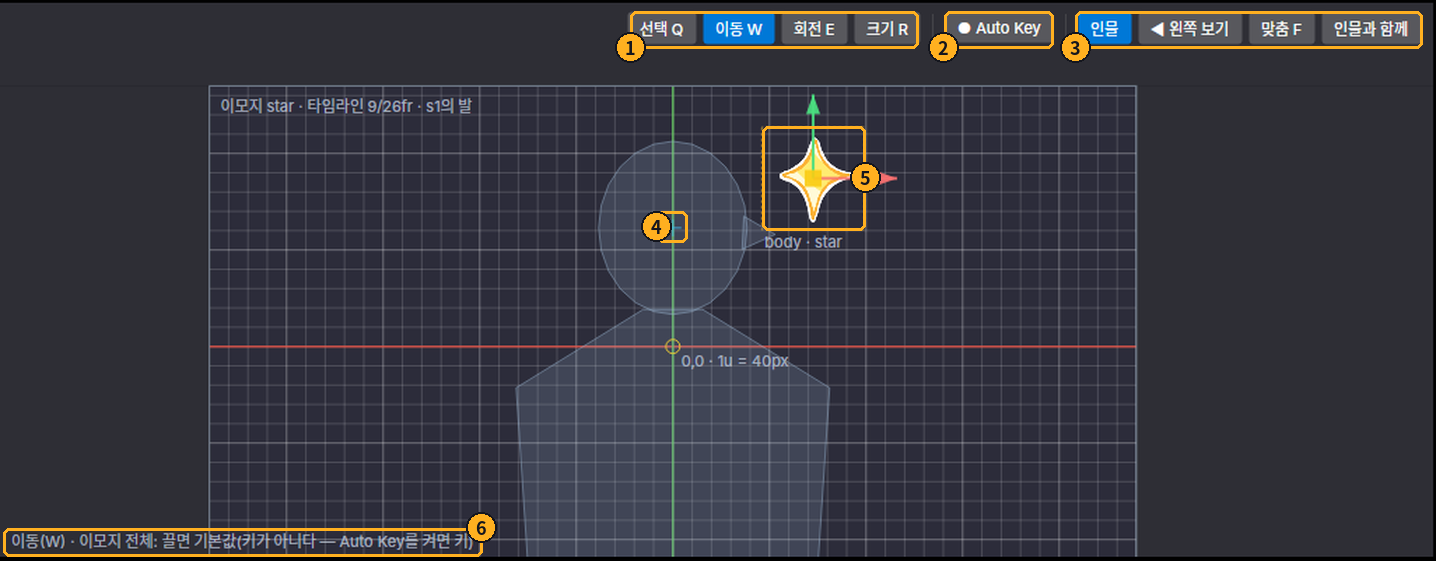
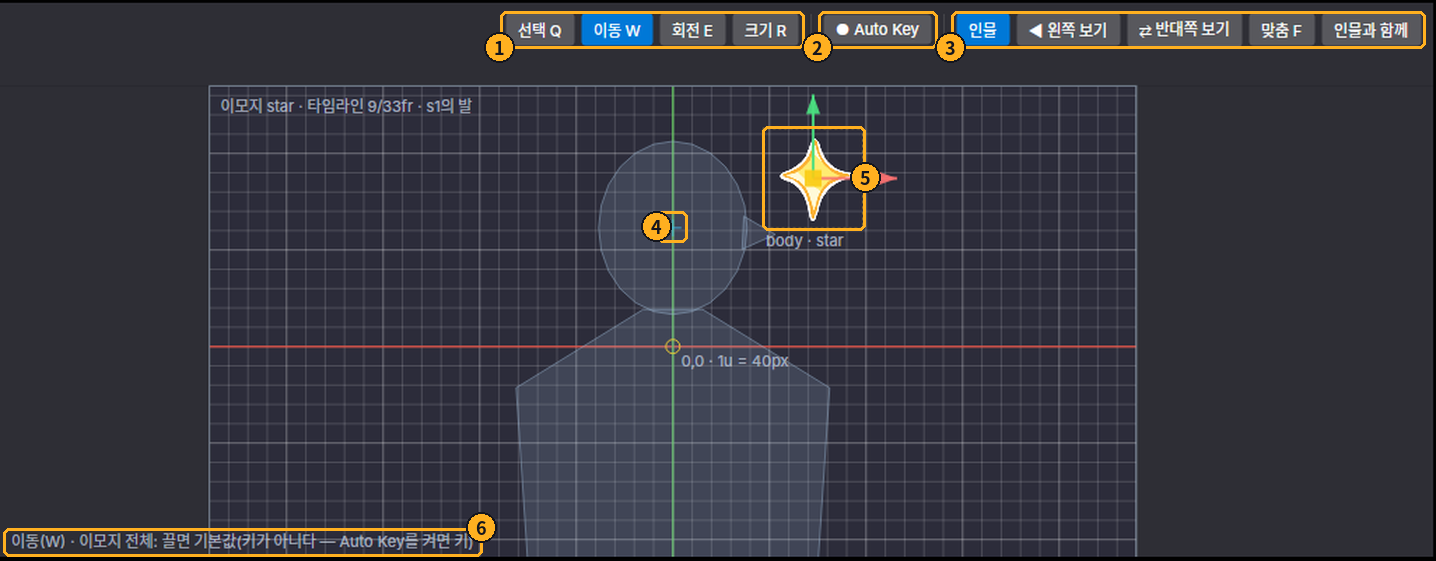
문서 · 그림을 30fps와 반대쪽(flip)에 맞춘다
앞의 두 커밋(30fps로 · flip과 _l 걷기)에 따라 설명서와 그림을 고친다.

- AUTHORING-FILES: 판 motion-authoring/3과 옛 판 옮기기(tools/authoring-24to30.py), 초당 30프레임 · 프레임↔초 표 ·
  알림의 보기(0.21초 = 6.3프레임), spark 보기를 옮긴 값으로, 좌우 절에 대본의 반대쪽(flip — 사본을 두지 않는다), mt pose --side
- USER-GUIDE · 그림 설명서: 초당 30프레임, 도구 띠의 "⇄ 반대쪽 보기"(단추 표 · 좌우 절 · 문제 표)
- 예시 README: 30fps로 옮긴 프레임과 구간, 이 폴더의 emojis.json이 런타임의 새 견본
- HANDOFF · MAINTENANCE · SESSION-HANDOFF · PLAN-cleanup: 판 /3 · 스냅 1/30 · 테스트 수(916)
- HANDOFF-30fps: 정한 것(반입 기준 · 판 /3과 스크립트 · 견본 · flip)과 한 것, 남은 것(런타임의 견본 바꾸기)
- 그림 설명서의 그림 18장을 다시 뽑았다(번호를 얹는 tools/guide-figures.py — 도구 띠가 넓어진 자리 ①~④).
  픽셀이 그대로인 8장(개념 그림 넷 · 키 놓기 · 프리셋 · 문제 · 씬 왼쪽)은 두었다

전체 테스트 916 통과.

Claude-Session: https://claude.ai/code/session_01FgAUGZh9UWnzLeHtUaGEK3

diff --git a/tools/guide-figures.py b/tools/guide-figures.py
@@ -243,13 +243,13 @@ figure("guide-clip", "clip-screen", [
 figure("guide-clip", "clip-timeline", [(1, 290, 599, 404, 643, "bl"), (2, 408, 599, 1186, 619, "tr"), (3, 650, 623, 1138, 643, "br"), (4, 384, 601, 398, 641, "t")], crop=(286, 575, 1314, 653), scale=1.5)
 
 figure("ux-star", "emoji-screen", [
-    (1, 6, 54, 276, 266, "l"), (2, 6, 274, 276, 380, "l"), (3, 288, 48, 1312, 445, "tl"), (4, 736, 54, 1304, 80, "bl"),
+    (1, 6, 54, 276, 266, "l"), (2, 6, 274, 276, 380, "l"), (3, 288, 48, 1312, 445, "tl"), (4, 645, 54, 1306, 80, "bl"),
     (5, 288, 449, 1312, 501, "tl"), (6, 288, 503, 1312, 577, "tl"), (7, 288, 585, 1312, 932, "tl"),
     (8, 1320, 50, 1596, 302, "tl"), (9, 1320, 308, 1596, 438, "tl"),
 ])
 figure("ux-new-emoji-form", "emoji-new", [(1, 8, 8, 452, 54, "r"), (2, 8, 60, 452, 198, "r"), (3, 8, 206, 452, 304, "r"), (4, 8, 312, 452, 470, "r"), (5, 10, 532, 88, 568, "bl")], scale=1.3, pad=14)
 figure("ux-star", "emoji-life", [(1, 292, 481, 408, 501, "bl"), (2, 434, 481, 856, 501, "b"), (3, 882, 481, 1026, 501, "br"), (4, 1030, 451, 1118, 475, "bl"), (5, 1122, 451, 1196, 475, "bl"), (6, 1200, 447, 1310, 479, "br")], crop=(286, 443, 1314, 579), scale=1.4)
-figure("ux-star", "emoji-viewport", [(1, 738, 54, 944, 80, "bl"), (2, 962, 54, 1040, 80, "bl"), (3, 1056, 54, 1304, 80, "bl"), (4, 757, 197, 779, 219, "l"), (5, 832, 136, 906, 210, "r"), (6, 290, 423, 632, 443, "tr")], crop=(288, 46, 1314, 447), scale=1.4)
+figure("ux-star", "emoji-viewport", [(1, 645, 54, 862, 80, "bl"), (2, 872, 54, 957, 80, "bl"), (3, 967, 54, 1306, 80, "bl"), (4, 757, 197, 779, 219, "l"), (5, 832, 136, 906, 210, "r"), (6, 290, 423, 632, 443, "tr")], crop=(288, 46, 1314, 447), scale=1.4)
 figure("ux-star", "emoji-keys", [(1, 1326, 334, 1420, 348, "r"), (2, 1326, 352, 1562, 380, "br"), (3, 1326, 384, 1362, 404, "r")], crop=(1318, 304, 1600, 440), scale=1.6)
 figure("ux-star", "emoji-lanes", [(1, 288, 669, 498, 819, "tr"), (2, 1256, 723, 1292, 741, "l"), (3, 1256, 826, 1296, 844, "l"), (4, 1196, 637, 1266, 661, "bl")], crop=(286, 583, 1314, 934), scale=1.0)
 figure("ux-move-imported", "emoji-move", [(1, 1030, 451, 1118, 475, "bl"), (2, 536, 481, 782, 501, "b")], crop=(286, 443, 1314, 579), scale=1.4)

diff --git a/docs/AUTHORING-FILES.md b/docs/AUTHORING-FILES.md
@@ -35,7 +35,7 @@
 | `mt validate <문서>` | 문제 목록. `blocking: true`가 하나라도 있으면 종료 코드 1 |
 | `mt pose <문서> --motion <이름> --time <초> [--object <id>] [--mode relative\|absolute]` | 그 시각에 모션이 건드리는 노드의 값 |
 | `mt pose <문서> --clip <이름> --time <초>` | 그 시각의 클립 — 오브젝트마다 노드의 값 |
-| `mt pose <문서> --emoji <이름> --time <초> [--off <초>] [--view life\|timeline] [--facing right\|left]` | 그 시각의 이모지 — 이모지 전체와 그림마다의 자리 · 크기 · 회전 · 투명도 · 그림 |
+| `mt pose <문서> --emoji <이름> --time <초> [--off <초>] [--view life\|timeline] [--facing right\|left] [--side default\|flip]` | 그 시각의 이모지 — 이모지 전체와 그림마다의 자리 · 크기 · 회전 · 투명도 · 그림 |
 | `mt export <문서> <motions.json>` | `motions.json`(`motions/2`)으로 내보낸다. 막는 문제가 있으면 쓰지 않는다 |
 | `mt emojis <문서> <emojis.json>` | `emojis.json`(`emojis/2`)으로 내보낸다. 막는 문제가 있으면 쓰지 않는다 |
 | `mt bake <문서> --clip <이름> --object <id> --name <새 모션> [--out <문서>]` | 클립에서 그 캐릭터에 얹힌 블록 전부를 모션 하나로 구워 문서에 더한다 |
@@ -103,7 +103,7 @@ mt pose     a.motion-authoring.json --clip greet --time 0.5
 
 ```json
 {
-  "schema": "motion-authoring/2",
+  "schema": "motion-authoring/3",
   "motions": [ … ],
   "clips":   [ … ],
   "emojis":  [ … ]
@@ -112,7 +112,7 @@ mt pose     a.motion-authoring.json --clip greet --time 0.5
 
 | 키 | 뜻 |
 |---|---|
-| `schema` | **반드시 `"motion-authoring/2"`.** 다르면 읽지 않는다 |
+| `schema` | **반드시 `"motion-authoring/3"`.** 다르면 읽지 않는다 — 옛 판 `/2`는 이모지의 프레임을 24fps로 셌다. 옛 문서는 `python3 tools/authoring-24to30.py <문서>`로 한 번 옮긴다 |
 | `motions` | 캐릭터 모션들(§4). 없으면 `[]` |
 | `clips` | 연출 클립들(§5). 없으면 적지 않는다 |
 | `emojis` | 이모지들(§6). 없으면 적지 않는다 |
@@ -121,7 +121,7 @@ mt pose     a.motion-authoring.json --clip greet --time 0.5
 공통 규칙:
 
 - **이름**(모션 · 클립 · 배역 · 이모지 · 그림 · 구간)은 영문 소문자 · 숫자 · `_`만 쓴다(`[a-z0-9_]+`). 같은 종류 안에서 겹치지 않는다. 내보낸 뒤에는 바꾸지 않는다 — 대본이 이름으로 부른다.
-- **시각은 초**다(`t` · `duration` · `at`). 툴과 게임은 초당 24프레임으로 본다 — 프레임 n은 `n / 24`초다(6프레임 = 0.25, 12프레임 = 0.5).
+- **시각은 초**다(`t` · `duration` · `at`). 툴과 게임은 초당 30프레임으로 본다 — 프레임 n은 `n / 30`초다(6프레임 = 0.2, 15프레임 = 0.5).
 - 키 이름은 camelCase, 값의 낱말(`restore` · `position` · `flat` …)은 소문자다. JSON 주석과 끝의 쉼표는 읽어 준다. 모르는 키는 읽지 않는다 — 키 이름의 오타는 뜻한 값을 빼먹는다. `mt validate`가 **알림**으로 그 자리(`motions[0].ednn`)를 말하니 알림도 읽는다. 대소문자는 가리지 않는다.
 
 ## 4. 캐릭터 모션
@@ -274,16 +274,16 @@ mt pose     a.motion-authoring.json --clip greet --time 0.5
     "duration": 1.0,
     "channels": [
       { "node": "Emoji_Offset", "kind": "scale",
-        "x": { "keys": [ { "t": 0, "v": 0, "tangent": "flat" }, { "t": 0.125, "v": 1.15, "tangent": "flat" }, { "t": 0.20833334, "v": 1, "tangent": "flat" } ] },
-        "y": { "keys": [ { "t": 0, "v": 0, "tangent": "flat" }, { "t": 0.125, "v": 1.15, "tangent": "flat" }, { "t": 0.20833334, "v": 1, "tangent": "flat" } ] } },
+        "x": { "keys": [ { "t": 0, "v": 0, "tangent": "flat" }, { "t": 0.13333334, "v": 1.15, "tangent": "flat" }, { "t": 0.2, "v": 1, "tangent": "flat" } ] },
+        "y": { "keys": [ { "t": 0, "v": 0, "tangent": "flat" }, { "t": 0.13333334, "v": 1.15, "tangent": "flat" }, { "t": 0.2, "v": 1, "tangent": "flat" } ] } },
       { "node": "small/EmojiRig_Image", "kind": "euler",
-        "z": { "keys": [ { "t": 0.25, "v": 0, "tangent": "linear" }, { "t": 0.75, "v": 360, "tangent": "linear" } ] } }
+        "z": { "keys": [ { "t": 0.26666668, "v": 0, "tangent": "linear" }, { "t": 0.76666665, "v": 360, "tangent": "linear" } ] } }
     ]
   },
   "spans": [
-    { "name": "in",   "start": 0,  "end": 5 },
-    { "name": "hold", "start": 6,  "end": 18 },
-    { "name": "out",  "start": 19, "end": 24 }
+    { "name": "in",   "start": 0,  "end": 6 },
+    { "name": "hold", "start": 8,  "end": 23 },
+    { "name": "out",  "start": 24, "end": 30 }
   ],
   "in": "in", "hold": "hold", "out": "out"
 }
@@ -331,8 +331,8 @@ mt pose     a.motion-authoring.json --clip greet --time 0.5
 
 이모지의 타임라인은 모션보다 **느슨하다**: 키가 하나여도 되고, 첫 키가 0이 아니어도, 마지막 키가 끝이 아니어도 된다. 키는 타임라인(0~`duration`) 안에만 있으면 된다. 첫 키 앞은 첫 키의 값, 마지막 키 뒤는 마지막 키의 값이다. `step`을 쓸 수 있다.
 
-- **키의 시각은 프레임에 맞춘다** — `t = 프레임 / 24`. (1프레임 0.041666668 · 3프레임 0.125 · 5프레임 0.20833334 · 6프레임 0.25 · 12프레임 0.5 · 18프레임 0.75 · 24프레임 1.0)
-- 타임라인의 프레임은 0부터 `duration × 24`까지다(1초면 0~24, 25프레임).
+- **키의 시각은 프레임에 맞춘다** — `t = 프레임 / 30`. (1프레임 0.033333335 · 3프레임 0.1 · 4프레임 0.13333334 · 6프레임 0.2 · 8프레임 0.26666668 · 15프레임 0.5 · 24프레임 0.8 · 30프레임 1.0)
+- 타임라인의 프레임은 0부터 `duration × 30`까지다(1초면 0~30, 31프레임).
 
 ### 수명 — 한 번 뜨고 사라지는가, 머무는가
 
@@ -349,13 +349,15 @@ mt pose     a.motion-authoring.json --clip greet --time 0.5
 
 이모지는 **오른쪽을 보는 인물**을 기준으로 만든다. 인물이 왼쪽을 보면 게임이 이모지를 통째로 거울에 비춘다 — 따로 만들지 않는다. 뒤집히면 안 되는 그림(글자 · 물음표)에만 `upright: true`, 아예 방향을 따르지 않게 하려면 이모지에 `fixedSide: true`.
 
+**반대쪽에 띄우는 것도 따로 만들지 않는다** — 대본이 고른다: `<<emoji 누구 이름 flip>>`이 정의의 반대쪽에 띄운다(오프셋 · 그림의 자리 · 이모지 전체의 움직임이 거울에 비치고, `upright` 그림은 바로 선다. `fixedSide` 이모지도 이것은 따른다). 좌우 사본(`<이름>_l`)을 두지 않는다.
+
 ### `mt pose --emoji`
 
 ```bash
 ./mt pose a.motion-authoring.json --emoji spark --time 0.1
 ```
 
-수명대로 읽는다(등장 → 머묾 되풀이 → `--off <초>`에 내리면 퇴장). `phase` · `clip` · `frame`이 지금 어느 구간의 몇 프레임인지 말하고, `offset`(이모지 전체)과 `rigs[]`(그림마다의 `at` 화면 자리 · `position` · `scale` · `rotation` · `alpha` · `sprite`)가 그때의 모습이다. 구간과 상관없이 타임라인의 그 프레임을 보려면 `--view timeline`, 왼쪽을 보는 인물에게 뜬 모습은 `--facing left`.
+수명대로 읽는다(등장 → 머묾 되풀이 → `--off <초>`에 내리면 퇴장). `phase` · `clip` · `frame`이 지금 어느 구간의 몇 프레임인지 말하고, `offset`(이모지 전체)과 `rigs[]`(그림마다의 `at` 화면 자리 · `position` · `scale` · `rotation` · `alpha` · `sprite`)가 그때의 모습이다. 구간과 상관없이 타임라인의 그 프레임을 보려면 `--view timeline`, 왼쪽을 보는 인물에게 뜬 모습은 `--facing left`, 대본이 반대쪽을 고른 모습(`flip`)은 `--side flip`.
 
 ## 7. 씬 — 미리보기의 자리 (적지 않아도 된다)
 
@@ -375,7 +377,7 @@ mt pose     a.motion-authoring.json --clip greet --time 0.5
 | `message` | 까닭 · 고치는 법 |
 |---|---|
 | `모르는 키 'motions[0].ednn' — 읽지 않았다`(알림) | 키 이름의 오타다 — 그 값은 들어가지 않았다. 이 문서의 이름으로 고친다 |
-| `schema '…'는 읽을 수 없다` | `schema`가 `motion-authoring/2`가 아니다 |
+| `schema '…'는 읽을 수 없다` | `schema`가 `motion-authoring/3`이 아니다 — 옛 판 `/2`(24fps)는 `python3 tools/authoring-24to30.py <문서>`로 옮긴다 |
 | `이름은 [a-z0-9_]+ 여야 한다` · `이름은 영문 소문자·숫자·_ 만 쓸 수 있다` | 대문자 · 빈칸 · 한글 · `-`를 썼다 |
 | `노드 '…'가 리그 'character'의 스키마에 없다` | 노드 이름이 틀렸다 — §4의 표에서 그대로 옮긴다 |
 | `키가 2개 이상이어야 한다` | 모션의 성분에 키가 하나다 |
@@ -388,14 +390,14 @@ mt pose     a.motion-authoring.json --clip greet --time 0.5
 | `…과 같은 때에 쓴다 — 겹칠 수 없다` | 같은 노드를 쓰는 두 블록의 시간이 겹친다 — `at`을 옮기거나 다른 노드를 쓰는 모션으로 |
 | `머묾 '…'이 되풀이할 때 튄다 — …`(알림) | 머묾의 끝에서 처음으로 넘어가는 한 걸음이 구간 안의 걸음보다 훨씬 크다 — 머묾의 처음과 끝의 값을 맞춘다 |
 | `그림 '…'의 그림 파일이 문서의 폴더 밖에 있다: …`(알림) | 절대 경로이거나 `../`로 나간다 — 저작본을 옮기면 그림을 잃는다. 그림을 문서 옆(그 아래 폴더)에 두고 그 경로로 적는다 |
-| `프레임에 안 맞는 키가 …개다`(알림) | 이모지의 키 시각이 1/24초의 배수가 아니다(0.26초 = 6.24프레임). 그대로 나가고 재생되지만 구간의 경계와 어긋난다 — `t`를 프레임 ÷ 24로 적는다(6프레임 = 0.25) |
+| `프레임에 안 맞는 키가 …개다`(알림) | 이모지의 키 시각이 1/30초의 배수가 아니다(0.21초 = 6.3프레임). 그대로 나가고 재생되지만 구간의 경계와 어긋난다 — `t`를 프레임 ÷ 30으로 적는다(6프레임 = 0.2) |
 | `그림 '…'의 그림 파일을 찾지 못했다: …`(알림) | `images`의 경로가 틀렸다 — 경로는 **문서 파일이 놓인 폴더** 기준이다 |
 | `그림이 없다` · `그림 '…'에 그림 파일이 없다` | 이모지에 `rigs`가 없다 · 그림에 `images`가 없다 |
 | `키를 받는 노드가 아니다` | 이모지의 `node`는 `Emoji_Offset` 또는 `{그림}/EmojiRig_Image`뿐이다 |
 | `그림 '…'이 이 이모지에 없다` | `node`의 그림 이름이 `rigs[].name`에 없다 |
 | `… 성분은 이모지에 없다` | 이모지의 회전은 `z`만, `alpha` · `image`는 `x`만 |
 | `키 …초가 타임라인(0~…초) 밖이다` | 키가 `duration`을 넘었다 |
-| `구간 '…'이 타임라인 밖이거나 거꾸로다` | 구간의 프레임이 `0 ~ duration×24`를 벗어났다 |
+| `구간 '…'이 타임라인 밖이거나 거꾸로다` | 구간의 프레임이 `0 ~ duration×30`을 벗어났다 |
 | `…에 이은 구간 '…'이 없다` | `in` · `hold` · `out`이 없는 구간을 가리킨다 |
 
 ## 9. 보내기 전에
@@ -403,7 +405,7 @@ mt pose     a.motion-authoring.json --clip greet --time 0.5
 - [ ] `mt validate`의 `ok`가 `true`다. 알림(`blocking: false`)은 읽고, 뜻한 것만 남겼다.
 - [ ] `mt pose`로 가장 큰 순간(가장 깊이 숙인 때 · 가장 커진 때)의 값을 읽어 뜻한 값인지 봤다.
 - [ ] 모션: 연기의 노드만 썼고 0(배율 1)에서 시작한다. `restore`면 0으로 끝난다.
-- [ ] 이모지: 키가 프레임에 맞고(`n/24`), 머묾이 되풀이할 때 튀지 않고, 등장의 끝 · 퇴장의 처음이 머묾과 이어진다.
+- [ ] 이모지: 키가 프레임에 맞고(`n/30`), 머묾이 되풀이할 때 튀지 않고, 등장의 끝 · 퇴장의 처음이 머묾과 이어진다.
 - [ ] 이름은 소문자 · 숫자 · `_`.
 
 ## 10. 예시

diff --git a/docs/MAINTENANCE.md b/docs/MAINTENANCE.md
@@ -24,7 +24,7 @@ dotnet run     --project src/Mt.App/Mt.App.csproj
 |---|---|
 | 모션·채널·키 모델, 씬 모델 | `Mt.Authoring/Model/MotionDocument.cs` · `SceneAsset.cs` · `StageNodes.cs`(무대 뼈대 이름 규약·패럴랙스 상수) |
 | 편집 명령 전부(undo 포함) | `Mt.Authoring/Editing/MotionEditor.cs`(+ `.Clips.cs` · `.Emojis.cs`) — `Mutate`·`Batch`·`RecordExternal`·`Undo/Redo`·끄는 조작(`BeginGesture`·`GestureChanged`·`EndGesture`) |
-| 저작 원본 읽고 쓰기 | `Serialization/MotionDocumentJson.cs` (`motion-authoring/2`만 읽는다) |
+| 저작 원본 읽고 쓰기 | `Serialization/MotionDocumentJson.cs` (`motion-authoring/3`만 읽는다) |
 | `motions.json` 읽고 쓰기 | `Serialization/MotionsJson.cs` (`motions/2` 정규 직렬화·관용 읽기) |
 | 규칙·경고·돕는 손 | `Validation/MotionValidator.cs`(코어 `MotionRules`) · `ClipValidator.cs` · `EmojiValidator.cs` · `MotionFixes.cs` · `MotionExport.cs` · `EmojiExport.cs` |
 | 문서가 스키마를 지키는가 · 덤프가 달라졌을 때 | `Schema/SchemaContract.cs`(막는 문제) · `SchemaDiff.cs`(알림 + 이름 바꾸기 따라가기) |
@@ -37,7 +37,7 @@ dotnet run     --project src/Mt.App/Mt.App.csproj
 | 시각의 포즈, 포즈 → 키 값 | `Preview/MotionPreview.cs` · `PoseEdit.cs`(`RootDeltaToLocal`·`AngleDelta`·`ScaleAlong`·`KeyValueFor`) |
 | 초상 배치·사각형 | `Preview/PortraitLayout.cs`(런타임 HeightFitPreserveAspect와 같다) |
 | 재생 시계 | `Preview/PlaybackClock.cs` |
-| 그래프 수학(순수) | `Graph/` — `GraphCamera`(좌표) · `GraphHitTest` · `TangentMath` · `HandleMath` · `KeyOps` · `KeySelection` · `KeyClipboard` · `TimeSnap`(DefaultStep 1/24) · `TimeText` · `TimeSliderOps` · `DopeSheetRows` · `CurveSampler` · `RelativeInput`(`+=3`) |
+| 그래프 수학(순수) | `Graph/` — `GraphCamera`(좌표) · `GraphHitTest` · `TangentMath` · `HandleMath` · `KeyOps` · `KeySelection` · `KeyClipboard` · `TimeSnap`(DefaultStep 1/30) · `TimeText` · `TimeSliderOps` · `DopeSheetRows` · `CurveSampler` · `RelativeInput`(`+=3`) |
 | 프리셋 모션 9종 | `Presets/MotionPresets.cs` |
 | 설정 파일 | `Settings/ToolSettings.cs` |
 | 셸 | `Mt.App/MainWindow.*.cs` — 맡은 일별 partial: `axaml.cs`(필드 · 화면 짜기 · 모션 목록과 인스펙터 · 명령) · `Mode`(작업 모드) · `Tools`(뷰포트 위 도구 띠) · `Shortcuts`(전역 단축키) · `Settings`(설정 · 창 배치 · 설정 창 · F1) · `Files` · `Document`(창 제목 · 저장하지 않은 것을 묻기 · 자동 저장본 되살리기) · `Scene`(하이어아키 · 씬 탭) · `ChannelBox` · `Outliner`(그래프 왼쪽 채널 목록) · `Problems`(문제 칸) |
@@ -119,12 +119,12 @@ dotnet run     --project src/Mt.App/Mt.App.csproj
 | `ScenePreview.Build` 순서 | 깊이 → place → 오프셋 → 샷. place 폴드는 월드 좌표로 되감기 때문에 뒤에 넣은 것만 살아남는다 |
 | SwayPivot 같은 스트레치 노드 | 원점이 화면 크기 rect의 아래 끝이라 그림 밖이다. 뷰포트 `GizmoAnchor`가 그림 가운데로 옮긴다 |
 | 그래프 팬은 RMB만 | MMB 드래그는 선택 키 이동(마야). 뷰포트는 MMB·RMB 둘 다 팬 |
-| 시간 스냅 기본 1/24 | 테스트는 기대값을 1/60으로 쓰는 곳이 있어 `Show()`에서 `SnapStep = 1.0 / 60`을 둔다 |
+| 시간 스냅 기본 1/30(1프레임, 30fps) | 테스트는 기대값을 1/60으로 쓰는 곳이 있어 `Show()`에서 `SnapStep = 1.0 / 60`을 둔다 |
 | 재생 기준 자동 변경 | 채널이 없는 모션의 **첫 키**를 자리·깊이 컨트롤러에 놓을 때만 절대값으로 바뀐다(`EnsurePreviewModeForGroup`) |
 | 자산 동기화 | `DocumentSession`은 편집기 Changed에서 리그·초상 지문(`rig=…\nbase=…\nportrait id=…`)이 바뀐 때만 다시 읽는다. 키 편집은 다시 읽지 않는다 |
 | 글 칸 확정 | `OnCommit`: Enter는 확정 + 포커스를 뷰포트로, LostFocus는 글이 바뀐 때만 확정. 같은 값 재확정은 기록이 아니다 |
 | 깊이 슬라이더 | 0‥40, close = 20, 그 너머는 `depth.json` 커브의 할선 연장(런타임 규칙). 놓으면 DepthScale X·Y + DepthY를 한 번에 굽는다 |
-| 옛 파일 | 읽지 않는다. 저작본은 `motion-authoring/2`가 아니면 거부한다. `motions.json`도 `motions/2`가 아니면 읽지 않는다. 지운 기능(카메라 모션 · 상태 블록)이 든 문서는 열리되 검증이 문제로 알린다 |
+| 옛 파일 | 읽지 않는다. 저작본은 `motion-authoring/3`이 아니면 거부한다(/2는 이모지의 프레임이 24fps — 툴 밖의 한 번 쓰는 `tools/authoring-24to30.py`로 옮긴다, 11-18). `motions.json`도 `motions/2`가 아니면 읽지 않는다. 지운 기능(카메라 모션 · 상태 블록)이 든 문서는 열리되 검증이 문제로 알린다 |
 | 안 쓰는 using | 빌드가 막지 않는다(`IDE0005`는 꺼져 있다). 훑는 법은 `PLAN-cleanup.md` §4 |
 | 설정 파일 | `%APPDATA%/ked-motion-tool-characterRig/`. 옛 자리(`ked-motion-tool`)는 형제 툴의 것이다 — 읽지도 쓰지도 않는다 |
 | 커밋 메시지 | 모델 식별자를 저장소 산출물에 넣지 않는다. 한국어, "무엇을 왜" |

diff --git a/examples/emoji/README.md b/examples/emoji/README.md
@@ -1,26 +1,28 @@
 # 이모지 예시
 
 런타임의 견본 셋(`ked-presentation-runtime` `Assets/Dialogue/emojis.json`, 런타임 `32858197`)을 툴 문서로 다시 지은 것이다(`docs/history/PLAN-emoji.md` E7 · E8).
-툴이 낸 `emojis.json`을 코어 로더로 읽으면 런타임의 파일과 모든 클립 · 모든 프레임(¼ 프레임 사이까지)에서 같은 값이 나온다 — `EmojiExampleTests`가 지킨다.
+2026-11-18 30fps로 옮겼다 — 24fps의 프레임 n을 round(n × 1.25)(0.5는 올림)로(`tools/authoring-24to30.py`와 같은 규칙, 시각은 1/60초 안에서 같다).
+**이 폴더의 `emojis.json`(fps 30)이 런타임의 새 견본이다** — 시험 픽스처 `tests/Mt.Authoring.Tests/Fixtures/runtime-emojis.json`도 이것이고, 런타임은 이것을 받아 24fps 견본과 바꾼다.
+툴이 낸 `emojis.json`을 코어 로더로 읽으면 그 견본과 모든 클립 · 모든 프레임(¼ 프레임 사이까지)에서 같은 값이 나온다 — `EmojiExampleTests`가 지킨다.
 
 - `emoji-examples.motion-authoring.json` — 앱에서 **열기…**로 연다. 그림은 `art/`(문서 기준 상대 경로).
-- `emojis.json` — 위 문서를 내보낸 것(`emojis/2`). 런타임의 견본은 이 파일을 가져다 놓은 것이다(2026-11-12에 바이트까지 같다) — 대조는 값으로 하므로 런타임이 손으로 고쳐도 테스트는 값이 같은지만 본다.
+- `emojis.json` — 위 문서를 내보낸 것(`emojis/2`, fps 30). 런타임의 견본은 이 파일을 가져다 놓는다 — 대조는 값으로 하므로 런타임이 손으로 고쳐도 테스트는 값이 같은지만 본다.
 - 문서는 손으로 쓴 것이 아니라 편집기 명령으로 지은 것이다: `tests/Mt.Authoring.Tests/EmojiExamples.cs`.
   고쳤으면 `MT_WRITE_EXAMPLES=1 dotnet test tests/Mt.Authoring.Tests -c Release --filter EmojiExampleTests`로 다시 쓴다(테스트가 파일과 코드가 같은지 지킨다).
 - 화면을 그림으로 뽑기: `MT_RENDER_DIR=<폴더> dotnet test tests/Mt.App.Tests -c Release --filter EmojiShots`.
 
 ## 들어 있는 것
 
-| 이모지 | 꼴 | 리그 · 그림 | 타임라인(24fps) |
+| 이모지 | 꼴 | 리그 · 그림 | 타임라인(30fps) |
 |---|---|---|---|
-| `star` | 머문다 — 등장 → 머묾 ⟲ → (내리면) 퇴장 | `body` · `art/star.png`(기본 배율 0.45) | 0~26프레임. 구간 `in` 0~4 · `hold` 5~20 · `out` 21~26을 잇기에 걸었다. 퇴장은 이모지 전체의 불투명도(`Emoji_Offset`)로 사라진다 |
-| `question` | 한 번(`main`) | `mark` · `art/question.png`(기본 배율 0.45 · **뒤집히지 않는 그림** `upright`) | 0~21프레임. 튀어나와 흔들리고(회전) 전체가 떠오르며 사라진다. 왼쪽을 보는 인물에게는 반대쪽에 뜨되 물음표는 바로 선다 |
-| `twinkle` | 한 번(`main`) | `left` · `center` · `right` — 셋 다 `art/star.png`, 기본 자리 · 배율 0.3 · 오른쪽만 회전 15° | 0~23프레임. 별 셋이 차례로 켜졌다 꺼지고 전체가 떠오른다 |
+| `star` | 머문다 — 등장 → 머묾 ⟲ → (내리면) 퇴장 | `body` · `art/star.png`(기본 배율 0.45) | 0~33프레임. 구간 `in` 0~5 · `hold` 6~25 · `out` 26~33을 잇기에 걸었다. 퇴장은 이모지 전체의 불투명도(`Emoji_Offset`)로 사라진다 |
+| `question` | 한 번(`main`) | `mark` · `art/question.png`(기본 배율 0.45 · **뒤집히지 않는 그림** `upright`) | 0~26프레임. 튀어나와 흔들리고(회전) 전체가 떠오르며 사라진다. 왼쪽을 보는 인물에게는 반대쪽에 뜨되 물음표는 바로 선다 |
+| `twinkle` | 한 번(`main`) | `left` · `center` · `right` — 셋 다 `art/star.png`, 기본 자리 · 배율 0.3 · 오른쪽만 회전 15° | 0~29프레임. 별 셋이 차례로 켜졌다 꺼지고 전체가 떠오른다 |
 
 이모지를 고르면 뷰포트가 그 그림에 맞춘다. 로케이터는 고른 캐릭터의 발치(`CharSlot_Scale`)이고, 오프셋은 거기서의 자리다(런타임과 같다).
-"수명 재생"을 켜면 `star`가 등장 → 머묾 × 바퀴 → 퇴장을 돈다. "왼쪽을 보는 인물로"를 켜면 뒤집힌 인물에게 뜨는 모습이다 — `star` · `twinkle`은 통째로 거울에 비치고, `question`의 물음표는 바로 선다.
+"수명 재생"을 켜면 `star`가 등장 → 머묾 × 바퀴 → 퇴장을 돈다. "◀ 왼쪽 보기"를 켜면 뒤집힌 인물에게 뜨는 모습이다 — `star` · `twinkle`은 통째로 거울에 비치고, `question`의 물음표는 바로 선다. "⇄ 반대쪽 보기"는 대본이 반대쪽을 고른 모습(`flip`)이다 — 인물은 그대로, 이모지만 반대쪽에 뜬다.
 
 ## 키
 
 키는 전부 flat(기울기 0)이다 — 런타임의 파일이 기울기를 적지 않았다. 런타임의 클립들은 한 타임라인에 이어 놓았고(`star`는 `in` · `hold` · `out` 순),
-두 클립의 경계(4 · 5프레임, 20 · 21프레임)에는 양쪽의 끝 키를 다 둔다. 머묾이 없는 이모지는 타임라인 전체가 `main` 클립이다.
+두 클립의 경계(5 · 6프레임, 25 · 26프레임)에는 양쪽의 끝 키를 다 둔다. 머묾이 없는 이모지는 타임라인 전체가 `main` 클립이다.

diff --git a/docs/USER-GUIDE.md b/docs/USER-GUIDE.md
@@ -54,8 +54,8 @@ dotnet run --project src/Mt.App/Mt.App.csproj
 ├───────────────┬───────────────────────────────────────────┬─────────────────┐
 │ 이모지 목록    │ 뷰포트 — 인물의 머리에 선 이모지             │ 고른 것의 값      │
 │  이모지 추가   │   도구 띠: Q · W · E · R · ● Auto Key      │  이모지를 골랐으면 │
-│  · 삭제 · 복제 │        | 인물 · ◀ 왼쪽 보기 · 맞춤 F ·      │   이름 · 머리에서  │
-│               │          인물과 함께                       │   X·Y · 길이 · 방향│
+│  · 삭제 · 복제 │        | 인물 · ◀ 왼쪽 보기 · ⇄ 반대쪽 보기 │   이름 · 머리에서  │
+│               │          · 맞춤 F · 인물과 함께             │   X·Y · 길이 · 방향│
 │ 그림 목록      ├───────────────────────────────────────────┤  그림을 골랐으면   │
 │  (이 이모지를  │ 수명의 띠 — 움직임 가져오기 ▾ · + 등장/머묾/  │   이름 · 그림 파일 │
 │   이루는 조각) │   퇴장 · 게임처럼 재생 / 색 띠              │   · 자리 · 크기 ·  │
@@ -261,7 +261,7 @@ dotnet run --project src/Mt.App/Mt.App.csproj
 
 ## 11. 이모지 — 첫 이모지
 
-이모지는 **그림 여러 장이 타임라인 하나**(초당 24프레임)를 함께 쓰는 것이다. 인물의 머리 곁에 뜬다.
+이모지는 **그림 여러 장이 타임라인 하나**(초당 30프레임)를 함께 쓰는 것이다. 인물의 머리 곁에 뜬다.
 
 먼저 만들어진 것을 보려면 **열기…**로 `examples/emoji/emoji-examples.motion-authoring.json`(견본 셋 — `star` · `question` · `twinkle`).
 
@@ -347,6 +347,7 @@ dotnet run --project src/Mt.App/Mt.App.csproj
 |---|---|
 | **인물** | 인물(초상 · 실루엣)을 보이거나 감춘다 |
 | **◀ 왼쪽 보기** | 왼쪽을 보는 인물에게 뜬 모습을 본다([15절](#15-좌우)). 보기만 — 켠 동안에는 그림의 기본 자리를 끌어 옮기지 못한다 |
+| **⇄ 반대쪽 보기** | 대본이 반대쪽을 고른 모습(`<<emoji 누구 이름 flip>>`)을 본다([15절](#15-좌우)). 인물은 그대로, 이모지만 반대쪽에 뜬다. 왼쪽 보기와 함께 켜면 두 번 뒤집혀 제 쪽이다. 보기만 — 켠 동안에는 끌어 옮기지 못한다 |
 | **맞춤 F** · **인물과 함께** | 그림에 맞춰 / 인물의 머리까지 같이 보이게 |
 
 머리의 자리는 캐릭터마다 다르고 런타임의 표가 든다. 덤프 옆에 `presets/emoji-locator.json`이 있으면 그 자리로, 없으면 발에서 800px 위로 보인다 — 보기일 뿐 이모지의 값은 바뀌지 않는다.
@@ -372,6 +373,8 @@ dotnet run --project src/Mt.App/Mt.App.csproj
 ## 15. 좌우
 
 이모지는 **오른쪽을 보는 인물**을 기준으로 만든다. 인물이 왼쪽을 보면 게임이 이모지를 통째로 거울에 비춘다 — 따로 만들지 않는다. **◀ 왼쪽 보기**로 확인한다.
+
+인물의 반대쪽(등 쪽)에 띄우는 것도 따로 만들지 않는다 — 대본이 `<<emoji 누구 이름 flip>>`으로 고른다. 오프셋 · 그림의 자리 · 이모지 전체의 움직임이 거울에 비치고, 아래 "뒤집지 않기"를 켠 그림은 바로 선다. **⇄ 반대쪽 보기**로 확인한다(좌우 사본을 따로 두지 않는다).
 
 | 칸 | 뜻 |
 |---|---|
@@ -423,7 +426,7 @@ dotnet run --project src/Mt.App/Mt.App.csproj
 | 모션이 끝에서 튄다 | 종료 처리가 복원인데 마지막 키가 0이 아니다 — 마지막 키를 0으로, 또는 유지로 |
 | 모션이 목록에서 흐리다("안 맞음") | 고른 오브젝트의 리그가 그 모션의 리그와 다르다 |
 | Ctrl+Z가 글자만 지운다 | 글 칸 안이다. Enter로 확정하면 그 뒤는 문서 되돌리기 |
-| 이모지를 끌어도 안 움직인다 | 고른 것이 없다 — 그림을 누르거나 왼쪽 목록에서 이모지를 누른다. 또는 "왼쪽 보기"가 켜져 있다 |
+| 이모지를 끌어도 안 움직인다 | 고른 것이 없다 — 그림을 누르거나 왼쪽 목록에서 이모지를 누른다. 또는 "왼쪽 보기"나 "반대쪽 보기"가 켜져 있다 |
 | 이모지의 그림이 사각형으로 보인다 | 그림 파일이 그 경로에 없다 — 그림을 고르고 **그림 더하기…**로 다시 넣는다 |
 | 머묾이 돌 때마다 튄다 | 머묾 구간의 처음과 끝의 모습이 다르다 |
 | 블록에 빨간 테두리 | 같은 캐릭터의 같은 손잡이를 쓰는 블록이 겹쳤다 — 시각을 옮긴다 |

diff --git a/docs/SESSION-HANDOFF.md b/docs/SESSION-HANDOFF.md
@@ -4,7 +4,7 @@
 저장소가 무엇인지는 [`HANDOFF.md`](HANDOFF.md)가, 지금 하는 일의 결정과 상태는 [`PLAN-cleanup.md`](PLAN-cleanup.md)가 적는다 — 이 문서는 그 둘에 없는 **"앞 세션이 어떻게 일했고, 어디서 멈췄고, 무엇을 조심해야 하는가"**만 적는다.
 다음 세션이 자리를 잡으면 이 문서는 지워도 된다(필요한 것은 위 두 문서로 옮긴다).
 
-> **11-18 — 다음 일:** 런타임이 프레임의 기준을 24fps에서 30fps로 바꿨다. 이 툴이 따를 것과 정할 것은 [`HANDOFF-30fps.md`](HANDOFF-30fps.md).
+> **11-18:** 런타임이 프레임의 기준을 24fps에서 30fps로 바꾼 것을 들였다 — 코어 사본(30 · 이모지의 쪽 `flip`) · 툴의 24 · 저작본 `motion-authoring/3` · library의 `_l`을 걷고 `flip`으로. 무엇을 왜 정했는지는 [`HANDOFF-30fps.md`](HANDOFF-30fps.md).
 
 ## 1. 한눈에
 
@@ -12,7 +12,7 @@
 |---|---|
 | 저장소 · 브랜치 | `ked-motion-tool-characterRig` · **`dev`** (`main`은 출발점 그대로, 건드리지 않는다) |
 | 마지막 커밋 | `git log`로 본다 — 이 문서를 처음 넣은 것은 `fe569b3`, 그 뒤 3단계의 1~3(`a48f810` · `9dd43a2` · `85a264e`)과 점검(`63305e1`), 점검으로 찾은 것을 고친 커밋들(`9056706` A1~A3 … `bff3103` D5)이 들어갔다 |
-| 테스트 | 896건 통과 — 코어 426 · 도메인 326 · 화면 144 |
+| 테스트 | 916건 통과 — 코어 438 · 도메인 334 · 화면 144 (11-18 30fps · `flip` 뒤) |
 | 작업 트리 | 깨끗하다. 소유자 PC의 사본에는 추적하지 않는 자동 저장본 `examples/emoji/emoji-examples.autosave.motion-authoring.json`이 있다 — **소유자의 것이니 지우지 않는다** |
 | 지금 단계 | **1단계 정리 끝 · 2단계 설명서 끝 · 3단계(불편 고치기)의 점검 A~D까지 고쳤다** — 고친 것 · 고치지 않은 것과 까닭 · 사람이 확인할 것은 `PLAN-cleanup.md` §6. 다음 일은 소유자가 정한다(쓰다 걸린 불편이 오면 §6에 더한다) |
 
@@ -76,7 +76,7 @@
 
 ## 5. 조심할 것 — 앞 세션이 걸린 데
 
-- **"마이그레이션은 두지 않는다."** 소유자가 분명히 정했다(2026-11-12): 옛 파일을 살리려는 방어 코드 · 폴백 경로 · 호환용 멤버를 남기지 않는다. 앞 세션은 기능을 지우며 "예전 문서도 읽히게" 읽을 때 버리는 코드를 넣었다가, 그리고 설정 파일을 옛 자리에서 읽어 오게 했다가 **도로 다 뺐다.** 형식을 바꾸거나 기능을 지울 때 옛 문서를 옮겨 읽는 코드를 넣지 않는다 — 저작본은 `motion-authoring/2`가 아니면 거부하고, `motions.json`은 `motions/2`가 아니면 읽지 않는다.
+- **"마이그레이션은 두지 않는다."** 소유자가 분명히 정했다(2026-11-12): 옛 파일을 살리려는 방어 코드 · 폴백 경로 · 호환용 멤버를 남기지 않는다. 앞 세션은 기능을 지우며 "예전 문서도 읽히게" 읽을 때 버리는 코드를 넣었다가, 그리고 설정 파일을 옛 자리에서 읽어 오게 했다가 **도로 다 뺐다.** 형식을 바꾸거나 기능을 지울 때 옛 문서를 옮겨 읽는 코드를 넣지 않는다 — 저작본은 `motion-authoring/3`이 아니면 거부하고(옛 /2를 옮기는 것은 툴 밖의 한 번 쓰는 스크립트 `tools/authoring-24to30.py`), `motions.json`은 `motions/2`가 아니면 읽지 않는다.
 - **"예전 파일"은 지우지 않았다.** `docs/history/`(끝난 계획서 12개 + 정리 전 README), PC의 자동 저장본, PC의 옛 설정 파일(`%APPDATA%\ked-motion-tool\` — 형제 툴이 쓴다) — 소유자가 **남긴다**고 했다.
 - **컨트롤러 표의 별칭**(`controllers.json`의 `aliases`)은 옛 파일용이 아니다. 런타임의 지금 견본 `nod`가 그 노드(`Track_Move_Y`)를 쓴다 — 지우지 않는다.
 - **설명서는 코드와 같이 간다.** 저작본의 형식 · 검증 문구 · `mt`의 출력을 바꾸면 `AUTHORING-FILES.md`와 `examples/authoring/`을(테스트 `AuthoringExampleTests`가 지킨다), 화면의 배치 · 단추 이름을 바꾸면 `USER-GUIDE.md`와 그림 설명서를 같이 고친다.

diff --git a/docs/guide/README.md b/docs/guide/README.md
@@ -175,7 +175,7 @@ Auto Key가 **꺼져** 있으면 끈 결과가 주황색 "키 없는 포즈"로 
 
 ![이모지의 구조](img/concept-emoji-parts.png)
 
-이모지는 **그림 여러 장이 타임라인 하나**(초당 24프레임)를 함께 쓴다. ① 머리의 자리는 게임이 정하고, 툴에서는 ② 거기서 얼마나 떨어져 뜨는지와 ③ ④의 움직임을 만든다.
+이모지는 **그림 여러 장이 타임라인 하나**(초당 30프레임)를 함께 쓴다. ① 머리의 자리는 게임이 정하고, 툴에서는 ② 거기서 얼마나 떨어져 뜨는지와 ③ ④의 움직임을 만든다.
 
 ### 4-2. 화면
 
@@ -186,7 +186,7 @@ Auto Key가 **꺼져** 있으면 끈 결과가 주황색 "키 없는 포즈"로 
 | ① | **이모지 목록** | 누르면 그 **이모지 전체**가 대상이 된다. 아래에 이모지 추가 · 삭제 · 복제 |
 | ② | **그림 목록** | 이 이모지를 이루는 그림. 누르면 그 **그림**이 대상이 된다. ▲ ▼ = 그리는 순서 |
 | ③ | **뷰포트** | 인물의 머리에 선 이모지 |
-| ④ | **도구 띠** | 선택 · 이동 · 회전 · 크기 · Auto Key / 인물 · 왼쪽 보기 · 맞춤 · 인물과 함께 |
+| ④ | **도구 띠** | 선택 · 이동 · 회전 · 크기 · Auto Key / 인물 · 왼쪽 보기 · 반대쪽 보기 · 맞춤 · 인물과 함께 |
 | ⑤ | **수명의 띠** | 등장 · 머묾 · 퇴장 |
 | ⑥ | **타임 슬라이더** | 지금 프레임 · 재생 |
 | ⑦ | **그래프** | 종류마다 한 칸(크기 · 투명도 …) |
@@ -238,7 +238,7 @@ Auto Key가 **꺼져** 있으면 끈 결과가 주황색 "키 없는 포즈"로 
 |---|---|
 | ① | 도구 — 선택 Q · 이동 W · 회전 E · 크기 R |
 | ② | **Auto Key** — 꺼짐: 끌면 **기본값**(그 그림을 어디에 얼마만 하게 두는가)이 바뀐다 / 켜짐: 끌면 **지금 프레임에 키** |
-| ③ | 보기 — 인물 보이기 · 왼쪽 보기 · 그림에 맞춤 · 인물과 함께 |
+| ③ | 보기 — 인물 보이기 · 왼쪽 보기 · 반대쪽 보기 · 그림에 맞춤 · 인물과 함께 |
 | ④ | **머리의 자리**(십자) |
 | ⑤ | 그림과 손잡이 — 눌러서 고르고 끈다 |
 | ⑥ | **지금 끌면 무엇이 바뀌는지**를 적는 글 — 헷갈리면 여기를 본다 |
@@ -261,7 +261,7 @@ Auto Key가 **꺼져** 있으면 끈 결과가 주황색 "키 없는 포즈"로 
 
 ![오른쪽과 왼쪽](img/emoji-side.png)
 
-이모지는 **오른쪽을 보는 인물**을 기준으로 만든다. 인물이 왼쪽을 보면 게임이 통째로 거울에 비춘다 — 따로 만들지 않는다. 도구 띠의 **◀ 왼쪽 보기**로 확인한다.
+이모지는 **오른쪽을 보는 인물**을 기준으로 만든다. 인물이 왼쪽을 보면 게임이 통째로 거울에 비춘다 — 따로 만들지 않는다. 도구 띠의 **◀ 왼쪽 보기**로 확인한다. 인물의 반대쪽에 띄우는 것도 대본이 고른다(`<<emoji 누구 이름 flip>>`) — **⇄ 반대쪽 보기**로 확인한다.
 
 - 글자 · 물음표처럼 뒤집히면 안 되는 그림: 그 그림의 **"인물이 돌아서도 이 그림은 뒤집지 않기"**.
 - 머리 위 한가운데에 뜨는 것처럼 방향과 상관없는 이모지: 이모지의 **"인물의 방향을 따르지 않기"**.

diff --git a/docs/HANDOFF-30fps.md b/docs/HANDOFF-30fps.md
@@ -1,8 +1,29 @@
 # 30fps로 — 런타임이 프레임의 기준을 바꿨다 (2026-11-18)
 
-> 상태: **할 일**. 아직 아무것도 고치지 않았다 — 이 툴은 지금 24fps다.
+> 상태: **끝(11-18)** — 아래 §0. 남은 것은 런타임 쪽의 견본 바꾸기 하나(§0 표의 끝 줄).
 > 근거: 공개 런타임 `ked-presentation-runtime` `fix/progressionScene` `0faca847`(한 커밋), 그쪽 `docs/PLAN_frames-30fps.md`.
-> 단계는 소유자가 "진행"이라고 할 때 시작한다(`SESSION-HANDOFF.md` §2). 아래 "정할 것"은 먼저 묻는다.
+> §1 ~ §4는 일을 시작할 때 쓴 계획 그대로 두었다.
+
+## 0. 정한 것 · 한 것 (11-18)
+
+정한 것(소유자 — "추천대로", `_l`은 걷는다):
+
+| | 정한 것 |
+|---|---|
+| ① 반입 기준 | `0faca847`에서 지금 들인다 — 그 가지의 다른 커밋은 진행 · 문서뿐이라 Presentation Core는 `dev` + 30fps와 같다. 세 파일만 부분 반입(전체 재반입은 남은 빚) |
+| ② 저작본의 키 | 판을 `motion-authoring/3`으로 올려 옛 문서(/2)는 읽지 않는다. 옮기는 것은 툴 밖의 한 번 쓰는 `tools/authoring-24to30.py`(프레임 n → round(n × 1.25), 0.5는 올림 — 초를 지키고 차이 ≤ 1/60초. 파일의 꼴은 그대로 두고 숫자만). 툴에 옮겨 읽는 코드는 두지 않는다(마이그레이션을 두지 않는다는 결정 그대로) |
+| ③ 예시 · 견본 | 툴이 예시를 30fps로 옮겨 짓고, 그 `emojis.json`(fps 30)을 런타임이 새 견본으로 받는다. 시험의 비교 기준(`Fixtures/runtime-emojis.json`)도 그것 |
+| ④ `flip` | 툴에 "⇄ 반대쪽 보기"와 `mt pose --side flip`을 둔다. library의 좌우 사본 `_l` 22개를 걷는다 |
+
+한 것:
+
+| 커밋 | 무엇 |
+|---|---|
+| `040bd40` | 코어 사본 세 파일 · 순수 시험(`EmojiSideTests` 새로) · 툴의 24 → 30(스냅 · 눈금 · 화면 글자) · 판 /3 · 옮기는 스크립트 · `examples` · `library` 옮김 · 예시 빌더 · 견본 픽스처 · 시험 |
+| `c614bb0` | `flip` 미리보기(`EmojiPreview` · 뷰포트 · "⇄ 반대쪽 보기" · `mt pose --side`) · library `_l` 걷기(남은 22종의 꼴은 그대로) · README |
+| (다음 커밋) | 문서(`AUTHORING-FILES` · `USER-GUIDE` · 그림 설명서 · `MAINTENANCE` · `HANDOFF` · 예시 README) · 그림 다시 뽑기 |
+| **남은 것 — 런타임** | 런타임의 견본 `Assets/Dialogue/emojis.json`을 `examples/emoji/emojis.json`(fps 30)으로 바꾼다. 그쪽 `docs/emoji-format.md`의 "견본은 24로 적어 두었다"와 `PLAN_frames-30fps.md` §3도 함께. 런타임은 소유자가 커밋한다 |
+| 소유자 PC | 자동 저장본(`examples/emoji/emoji-examples.autosave.motion-authoring.json` 등)은 /2라 열리지 않는다 — 필요하면 `python3 tools/authoring-24to30.py <파일>` |
 
 ## 1. 런타임에서 바뀐 것
 

diff --git a/docs/HANDOFF.md b/docs/HANDOFF.md
@@ -27,7 +27,7 @@
 | **코어 사본은 고치지 않는다** | `src/Ked.Presentation.Core`는 런타임 코어의 사본. 흐름은 한 방향(런타임 → 사본). 필요한 것은 런타임에서 먼저 정한다 — `vendoring.md` |
 | **형식을 이끌지 않는다** | `motions/2` · `emojis/2`는 런타임의 형식이다. 툴이 먼저 바꾸지 않는다 |
 | **보이는 것 = 재생하는 것** | 미리보기의 포즈는 코어의 함수(`MotionMath` · `EmojiPlayback` · 리듀서)로만 만든다. 화면용 근사식을 두지 않는다 |
-| **진실은 저작 원본** | `*.motion-authoring.json`(`motion-authoring/2`)이 주인이고 `motions.json` · `emojis.json`은 산출물이다 |
+| **진실은 저작 원본** | `*.motion-authoring.json`(`motion-authoring/3`)이 주인이고 `motions.json` · `emojis.json`은 산출물이다 |
 | **편집은 `MotionEditor`만 지난다** | 조작 하나 = 되돌리기 한 칸. 같은 값은 기록하지 않는다. 테스트가 `editor.Revision`으로 본다 |
 | **재생 기준은 파일에 없다** | 상대값/절대값은 대본의 `<<motion>>`이 정한다. 툴의 "재생 기준"은 키 값을 읽는 렌즈다 |
 | **조작은 마야** | 단축키 · 그래프 · 타임 슬라이더 · 트윈머신. 표는 F1 |
@@ -65,7 +65,7 @@ tools/    유니티 프리팹에서 무대 뼈대를 다시 뽑는 스크립트
 
 | 파일 | 형식 | 주인 | 비고 |
 |---|---|---|---|
-| `*.motion-authoring.json` | `motion-authoring/2` | 이 툴 | 모션 · 씬 · 클립 · 이모지 · 덤프 참조 · 지을 때의 스키마(`builtOn`). 손으로(또는 AI가) 써도 된다 — 키에는 값과 탄젠트 **종류**만 적으면 읽을 때 값이 선다 |
+| `*.motion-authoring.json` | `motion-authoring/3`(11-18 — 이모지의 프레임이 30fps) | 이 툴 | 모션 · 씬 · 클립 · 이모지 · 덤프 참조 · 지을 때의 스키마(`builtOn`). 손으로(또는 AI가) 써도 된다 — 키에는 값과 탄젠트 **종류**만 적으면 읽을 때 값이 선다 |
 | `motions.json` | `motions/2` | 런타임 | 정규 직렬화 — 유니티 내보내기와 바이트까지 같다(골든 테스트) |
 | `emojis.json` | `emojis/2` | 런타임 | 구간마다 따로 선 클립. 내보낸 것을 런타임 로더로 다시 읽어 본다 |
 | `ExportedTuning/rig-schemas.json` 외 | 유니티 덤프 | 런타임 | 내장본 `Mt.Authoring/Defaults/ExportedTuning`. 덤프 옆의 깊이 · focus · 기준 해상도 · 컨트롤러 표 · 이모지 자리 표도 읽는다 |

diff --git a/docs/PLAN-cleanup.md b/docs/PLAN-cleanup.md
@@ -97,7 +97,7 @@
 
 - **안 쓰는 using**은 보통 빌드가 막지 않는다(`IDE0005`는 꺼져 있다). 파일을 나누며 한 번 훑어 저장소 전체에서 지웠다 — 임시 `.editorconfig`(`dotnet_diagnostic.IDE0005.severity = warning`)와 `-p:EnforceCodeStyleInBuild=true -p:GenerateDocumentationFile=true`로 빌드하면 나온다.
 
-- **마이그레이션은 두지 않는다**(소유자, 2026-11-12 — 1단계가 끝난 뒤의 지시). 옛 형식을 옮겨 읽던 것을 전부 지웠다: `motion-authoring/1`(`defaultMode` → 재생 기준) · `motions/1`(채널 `mode` 알림) · `preview.portrait`(→ 기본 씬의 초상, `PreviewSettings`) · 카메라 모션 · 카메라 줄 · 상태 블록을 읽을 때 버리던 것. 저작본은 `motion-authoring/2`가 아니면 거부한다.
+- **마이그레이션은 두지 않는다**(소유자, 2026-11-12 — 1단계가 끝난 뒤의 지시). 옛 형식을 옮겨 읽던 것을 전부 지웠다: `motion-authoring/1`(`defaultMode` → 재생 기준) · `motions/1`(채널 `mode` 알림) · `preview.portrait`(→ 기본 씬의 초상, `PreviewSettings`) · 카메라 모션 · 카메라 줄 · 상태 블록을 읽을 때 버리던 것. 저작본은 지금 판이 아니면 거부한다(그때 `motion-authoring/2`, 11-18부터 `/3` — 30fps).
 - **씬이 여럿인 문서는 그대로 읽고 쓴다**(`scenes[]` · `activeScene`). 더하거나 바꾸는 명령만 없다. 테스트가 본다.
 - 반복 · 모션 바꾸기는 `UpdateClipBlock`(블록 인스펙터) 하나로 한다.
 
